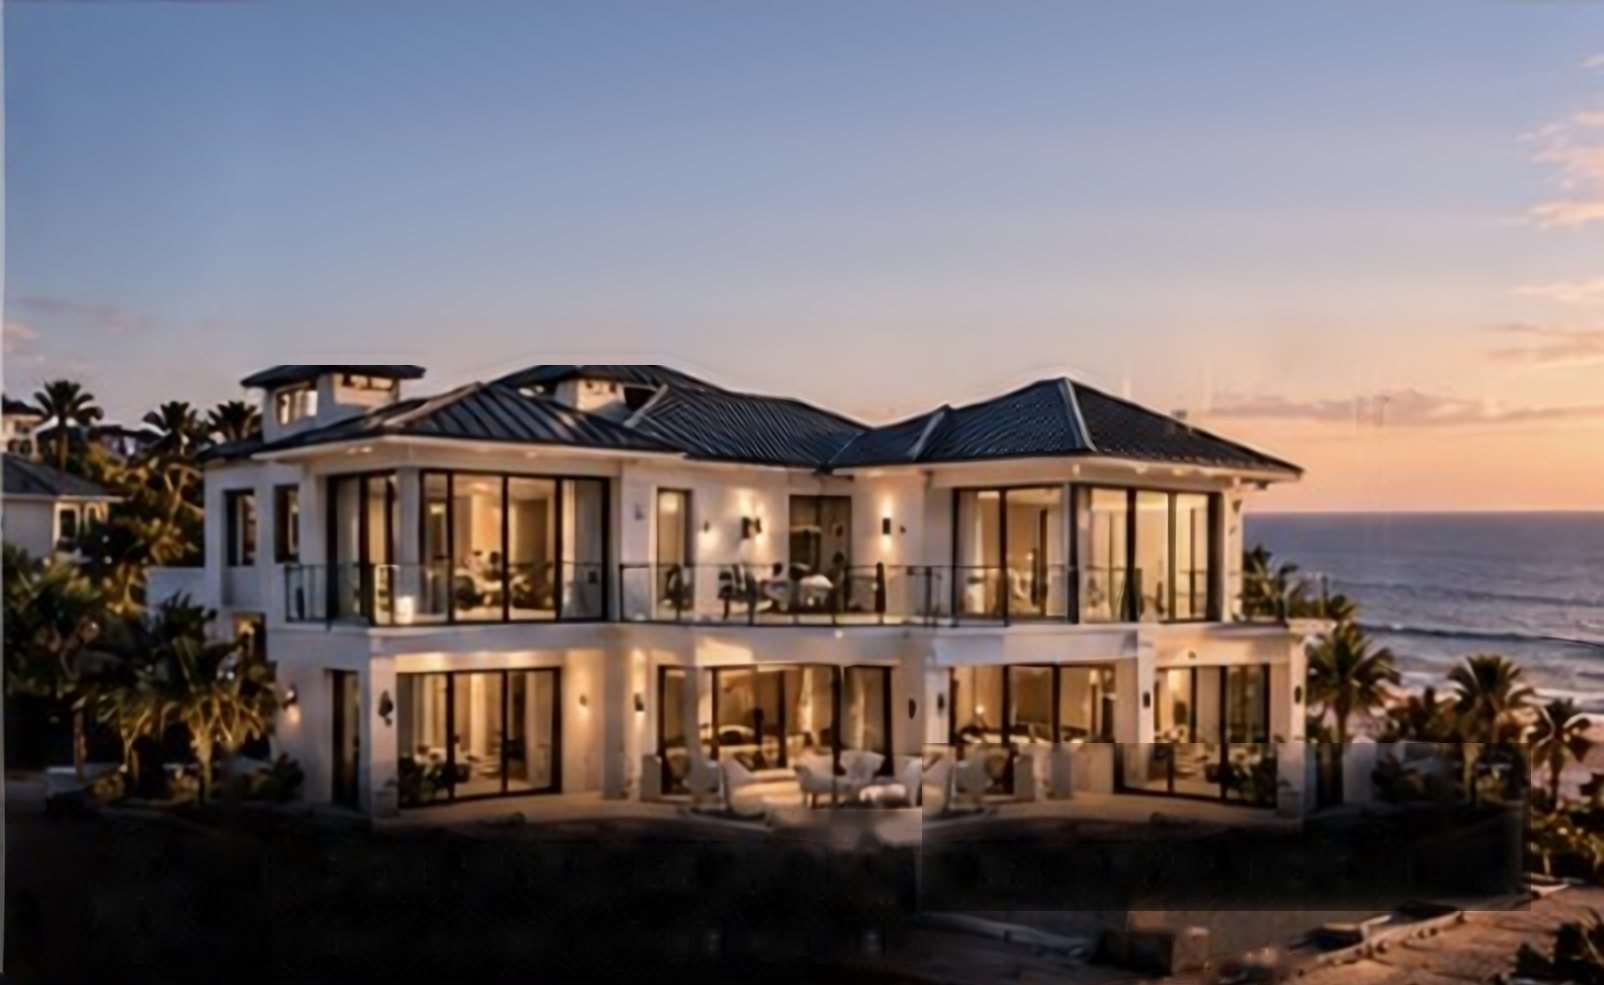
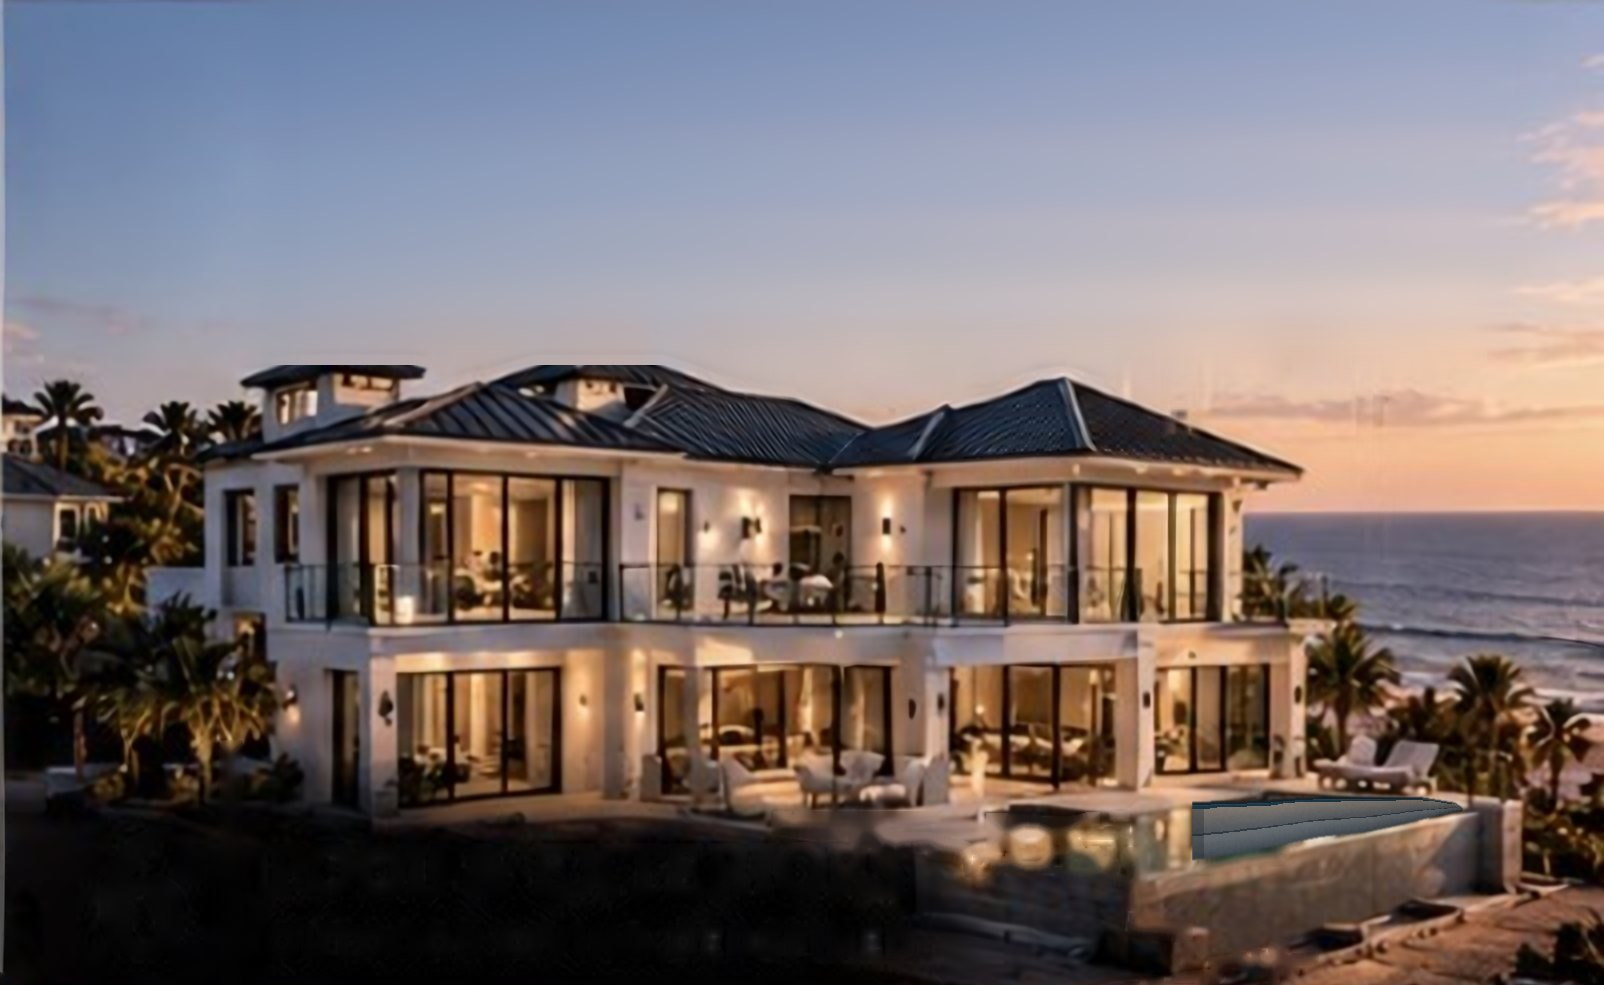
Growth Engine: pool drains and refills, Hilton Head line on the media slide
The pool no longer falls in sideways. It stays in place and, on its turn,
drains to an empty basin and fills back up on the music's beat, with water
sounds and a glint when it is full. The 4K media slide adds commercials and
a short line on looking like Hilton Head Island's number one builder.

Claude-Session: https://claude.ai/code/session_01TNR8JmEy4zebhgppoopCcK

Changed region(s): [[0.5611, 0.731, 0.9663, 0.9442]]

diff --git a/growth-engine/index.html b/growth-engine/index.html
@@ -46,6 +46,12 @@ body{background:var(--ink);color:var(--fg);font:16px/1.6 var(--body);-webkit-fon
 .shot.short .stagebox::after{height:18%}
 .stagebox .plate{position:absolute;inset:0;display:block;width:100%;height:100%}
 .piece{position:absolute;display:block;transform-origin:50% 100%;will-change:transform;backface-visibility:hidden}
+.water{position:absolute;pointer-events:none}
+.water img{position:absolute;inset:0;width:100%;height:100%;display:block}
+.water.moving{filter:drop-shadow(0 -1px 0 rgba(214,255,250,.5))}
+.water i{position:absolute;inset:0;-webkit-mask-size:100% 100%;mask-size:100% 100%;-webkit-mask-repeat:no-repeat;mask-repeat:no-repeat;background:linear-gradient(105deg,rgba(255,255,255,0) 38%,rgba(255,250,235,.6) 50%,rgba(255,255,255,0) 62%) no-repeat;background-size:60% 100%;background-position:-120% 0;opacity:0}
+.water.glint i{animation:glint 1.3s ease-out}
+@keyframes glint{0%{opacity:1;background-position:-120% 0}80%{opacity:1}100%{opacity:0;background-position:220% 0}}
 .build-dust{position:absolute;inset:0;width:100%;height:100%;pointer-events:none}
 .build::after{content:"";position:absolute;inset:0;pointer-events:none;background:radial-gradient(120% 90% at 62% 45%,transparent 55%,rgba(8,7,6,.5))}
 #fade{position:fixed;inset:0;background:#050505;opacity:0;pointer-events:none;z-index:1}
@@ -321,14 +327,15 @@ el.animate([{opacity:1,transform:'scale(1)'},{opacity:.9,transform:'scale(1.4)',
     <div class="card">
       <div class="tb"><span>A-451</span><span>Pool + exteriors</span><span>4K media + content</span></div>
       <h2>Shot like a luxury listing. <em>From the air and the ground.</em></h2>
-      <p>Chandler's team shoots it all: cinematic 4K drone flyovers, aerial photography and on-site camera work that make a finished New Trust Services, LLC project look like what it's worth.</p>
+      <p>Even on your busiest weeks, Chandler's team captures every job in 4K, so your work and your experience are preserved and always on display.</p>
       <ul class="spec">
         <li><b>Drone</b><span>Cinematic 4K flyovers and ultra HD aerial photos of every build.</span></li>
         <li><b>Camera work</b><span>4K on-site filming: before, progress, craft close-ups and walkthroughs.</span></li>
         <li><b>Content library</b><span>Portfolio-grade photos and clips for the website, Google, ads and bids.</span></li>
+        <li><b>Commercials</b><span>Short HD commercials and ad spots for Google, Meta and YouTube.</span></li>
         <li><b>Social media</b><span>Optional: viral-format Reels, TikToks and Shorts, from drone reveals to before-and-afters.</span></li>
       </ul>
-      <p class="loss">High-end clients judge the builder by the footage before they ever meet the crew. Ultra HD makes a six-figure price make sense before the first call.</p>
+      <p class="loss">Online, HD photos, video, commercials and ads make New Trust Services, LLC look like the number one builder in Hilton Head Island. That's what lands the bigger, more profitable jobs: work less, make more.</p>
     </div>
   </section>
 
@@ -1026,6 +1033,24 @@ el.animate([{opacity:1,transform:'scale(1)'},{opacity:.9,transform:'scale(1.4)',
         osc('triangle', 320, 260, 0.03, t + o, 0.001, 0.3 * w, 0.03, d); nz(t + o, 0.001, 0.25 * w, 0.01, 'bandpass', 2000, 1, d);
       });
     },
+    drain: function (t, v, d) {                          // the pool draining: a swirl of water and a few glugs
+      nz(t, 0.35, 0.22 * v, 0.55, 'lowpass', 900, 0.8, d, 240, 1.6);
+      nz(t + 0.1, 0.3, 0.1 * v, 0.4, 'bandpass', 520, 1.6, d, 180, 1.3);
+      for (var k = 0; k < 7; k++) {
+        var tt = t + 0.25 + k * 0.17 + R() * 0.06, f = 260 + R() * 120;
+        osc('sine', f, f * 1.7, 0.05, tt, 0.003, (0.16 - k * 0.012) * v, 0.03, d);   // a bubble's rising bloop
+      }
+    },
+    fill: function (t, v, d) {                           // water rushing back in, its pitch rising as the pool fills
+      nz(t, 0.002, 0.3 * v, 0.06, 'bandpass', 1500, 0.8, d); grains(t + 0.01, 18, 0.35, 2200, 6000, 0.12 * v, d, 2);
+      nz(t, 0.4, 0.2 * v, 0.7, 'bandpass', 480, 0.9, d, 1500, 1.7);
+      nz(t, 0.3, 0.14 * v, 0.6, 'lowpass', 320, 0.7, d);
+      grains(t + 0.4, 26, 1.2, 1500, 4500, 0.06 * v, d, 3);
+    },
+    sparkle: function (t, v, d) {                        // a light chime as the full pool catches the light
+      metal(t, 2350, [1, 1.5, 2.01], [0.3, 0.22, 0.14], 0.07 * v, d);
+      metal(t + 0.09, 3140, [1, 1.5], [0.25, 0.16], 0.05 * v, d);
+    },
     whoosh: function (t, v, d) {
       var p = pn(-0.6, d), f = nz(t, 0.3, 0.9 * v, 0.07, 'bandpass', 350, 1.1, p);
       f.frequency.setValueAtTime(350, t); f.frequency.exponentialRampToValueAtTime(1700, t + 0.3); f.frequency.exponentialRampToValueAtTime(450, t + 0.55);
@@ -1125,12 +1150,15 @@ el.animate([{opacity:1,transform:'scale(1)'},{opacity:.9,transform:'scale(1.4)',
    plate plus its piece, cut into a few sections. As the stage's card arrives, the sections fall in from
    above the frame one at a time, landing on the beat: a gravity drop, a hard landing with a small squash and
    rebound, a puff of dust and a landing sound. Once the last one settles the shot dissolves to the next
-   stage with that piece installed. The camera holds steady and only drifts part way toward the action. */
+   stage with that piece installed. The camera holds steady and only drifts part way toward the action.
+   The pool is the one exception: it stays where it is in the photo and, on its turn, drains and fills back up. */
 var wrap = document.getElementById('build');
 if (!wrap) return;
 var reduce = matchMedia('(prefers-reduced-motion: reduce)').matches;
 // m: scroll position the stage is centred on. piece: [x, y, w, h] of the whole piece as it hung in the source photo
 // (fractions of the plate), land: [dx, dy, scale] that puts it in place on the house. order: which section drops first.
+// fill: [x, y, w, h] of the pool's water layer; line: its waterline, [x, top, bottom] as fractions of that box
+// (sr/poolfill.py cuts the water out and paints the empty basin under it)
 var FRAMES = [
   {src: 'final',      m: 0,    stage: 'The vision',          w: 2412, h: 1328},
   {src: 'foundation', m: .04,  stage: 'Foundation',          w: 1604, h: 981,  piece: [.0998, .633, .7723, .2324],  land: [0, 0, 1],        order: [0, 1, 2],       kind: 'concrete'},
@@ -1138,7 +1166,8 @@ var FRAMES = [
   {src: 'walls',      m: .3,   stage: 'Exterior walls',      w: 1604, h: 981,  piece: [.1459, .0724, .7089, .3374], land: [0, .29, .74],    order: [0, 1, 2, 3, 4], kind: ['concrete', 'glass', 'glass', 'glass', 'concrete']},
   {src: 'roof',       m: .47,  stage: 'Roofing',             w: 1604, h: 985,  piece: [.0673, .0843, .8416, .2863], land: [0, .16, .87],    order: [1, 0, 2],       kind: 'roof'},
   {src: 'interiors',  m: .635, stage: 'Interiors',           w: 1600, h: 985,  piece: [.0956, 0, .785, .4772],      land: [0, .06, .95],    order: [0, 1, 2],       kind: 'wood'},
-  {src: 'pool',       m: .74,  stage: 'Pool + exteriors',    w: 1604, h: 985,  piece: [.1764, .0954, .7089, .2589], land: [.339, .391, .42], order: [0, 1],          kind: 'concrete'},
+  {src: 'pool',       m: .74,  stage: 'Pool + exteriors',    w: 1604, h: 985,  fill: [.7406, .8051, .1739, .0721],
+   line: [[0, .1056, .9366], [.125, .0915, .8662], [.25, .0775, .7817], [.375, .0493, .6972], [.5, .0352, .5986], [.625, .0352, .5423], [.75, .0352, .4437], [.875, .0634, .331], [1, .2042, .2324]]},
   {src: 'landscape',  m: .86,  stage: 'Landscaping',         w: 1604, h: 1083, piece: [.1103, 0, .7213, .3758],     land: [0, .45, 1.15],   order: [0, 3, 1, 2],    kind: 'palm'},
   {src: 'final',      m: .96,  stage: 'The finished estate', w: 2412, h: 1328}
 ];
@@ -1150,7 +1179,6 @@ var PARTS = {
   walls: [[.1478, .1162, .0991, .2508], [.2712, .0755, .1347, .2661], [.4551, .1203, .1608, .2793], [.6259, .1336, .144, .2732], [.7993, .0765, .0536, .314]],
   roof: [[.0692, .128, .2843, .2274], [.3535, .0873, .2774, .2802], [.6309, .1686, .2762, .199]],
   interiors: [[.0975, 0, .2725, .4467], [.37, 0, .2669, .4741], [.6368, .0457, .2419, .4264]],
-  pool: [[.1783, .0984, .331, .2355], [.5093, .1015, .3741, .2497]],
   landscape: [[.1122, -.0729, .1677, .3684], [.3291, -.072, .1764, .3352], [.5286, .0951, .1128, .1985], [.6496, -.0785, .1802, .446]]
 };
 var STAG = 520, SETTLE = 420, HOLD = 520;   // ms: gap between landings (the music's beat when it plays), settle, pause before the dissolve
@@ -1158,13 +1186,15 @@ var ZOOM = 2.1;     // phones: the photo is this many screen widths wide, so mos
 var FOLLOW = .5;    // how far the camera drifts toward the section that is dropping (0 = locked, 1 = centred on it)
 var GRAV = 2.4;     // fall acceleration, in frame heights per second squared
 var ENTRY = .3;     // pieces come in already falling: this share of the fall is covered at entry speed
+var DRAIN = 3, DRY = 1, REFILL = 3, LOW = .9;   // the pool: beats to drain, to stand empty and to fill back up; how far down it goes
+function stage(f){ return !!(f.piece || f.fill); }   // a stage that builds something on its turn
 var bg = wrap.querySelector('.build-bg'), stack = wrap.querySelector('.build-frame'), dust = wrap.querySelector('.build-dust');
 function warm(im){ if (im.decode) im.decode().catch(function(){}); }
 var shots = FRAMES.map(function(f){
   var s = document.createElement('div'); s.className = 'shot';
   var box = document.createElement('div'); box.className = 'stagebox'; s.appendChild(box);
   var plate = new Image(); plate.alt = ''; plate.decoding = 'async'; plate.className = 'plate';
-  plate.src = f.piece ? 'estate2/' + f.src + '_plate.jpg' : 'estate/' + f.src + '.jpg';
+  plate.src = stage(f) ? 'estate2/' + f.src + '_plate.jpg' : 'estate/' + f.src + '.jpg';
   box.appendChild(plate); warm(plate);
   var o = {el: s, box: box, bw: 0, bh: 0, top: 0, x: null, v: 0, hidden: false};
   if (f.piece){
@@ -1179,6 +1209,15 @@ var shots = FRAMES.map(function(f){
               mass: Math.min(1.4, b[2]*b[3]*L[2]*L[2]*8), kind: typeof f.kind === 'string' ? f.kind : f.kind[k]};
     });
   }
+  if (f.fill){
+    // the water, over the empty basin painted into the plate: its waterline is clipped down to drain it
+    var wv = document.createElement('div'); wv.className = 'water';
+    wv.style.left = f.fill[0]*100 + '%'; wv.style.top = f.fill[1]*100 + '%'; wv.style.width = f.fill[2]*100 + '%'; wv.style.height = f.fill[3]*100 + '%';
+    var wi = new Image(); wi.alt = ''; wi.decoding = 'async'; wi.src = 'estate3/' + f.src + '_water.webp';
+    var gl = document.createElement('i'); gl.style.webkitMaskImage = gl.style.maskImage = 'url("estate3/' + f.src + '_water.webp")';
+    wv.appendChild(wi); wv.appendChild(gl); box.appendChild(wv); warm(wi);
+    o.water = wv; o.wimg = wi; o.parts = []; o.level = 0;
+  }
   stack.appendChild(s); return o;
 });
 var hud = document.getElementById('hud'), hTitle = document.getElementById('hudTitle'), hNum = document.getElementById('hudNum'),
@@ -1192,7 +1231,7 @@ function measure(){
   anchors = beats.map(function(b){ var r = b.getBoundingClientRect(), top = r.top + scrollY;
     return {y: b.classList.contains('hero') ? top + innerHeight*.5 : top + r.height*.5, m: +b.dataset.m, s: +b.dataset.s, a: +b.dataset.a}; });
   cardAt = FRAMES.map(function(f){
-    var b = f.piece && beats.filter(function(x){ return +x.dataset.m === f.m && +x.dataset.s === 0; })[0], c = b && b.querySelector('.card');
+    var b = stage(f) && beats.filter(function(x){ return +x.dataset.m === f.m && +x.dataset.s === 0; })[0], c = b && b.querySelector('.card');
     return c ? target(c.getBoundingClientRect().top + scrollY - innerHeight*.76).m : null;
   });
 }
@@ -1217,7 +1256,7 @@ function dropAt(i){
    into the page below, and the camera glides part way toward each section as it drops */
 var FW = 0, FH = 0;
 function phone(){ return FW/FH < 1.2; }
-function orderOf(i){ var f = FRAMES[i]; return phone() ? PARTS[f.src].map(function(b, k){ return k; }) : f.order; }
+function orderOf(i){ var f = FRAMES[i]; return !f.piece ? [] : phone() ? PARTS[f.src].map(function(b, k){ return k; }) : f.order; }
 function layout(){
   var fw = stack.clientWidth, fh = stack.clientHeight; FW = fw; FH = fh;
   shots.forEach(function(s, i){
@@ -1234,6 +1273,7 @@ function layout(){
 function camAim(i, j, P){
   // desktop: the landing area, drifting half way to where the piece ends up; phones: the landing area, drifting toward section j
   var s = shots[i], f = FRAMES[i];
+  if (f.fill){ var cx = f.fill[0] + f.fill[2]/2; return phone() ? cx : .5 + FOLLOW*(cx - .5); }   // the pool, held in view
   if (!f.piece) return .45;
   var gx = f.piece[0] + f.piece[2]/2;
   if (!phone()) return gx + FOLLOW*f.land[0]*P;
@@ -1257,8 +1297,17 @@ function put(i, j, off, sx, sy){
   var s = shots[i], q = s.parts[j], k = FRAMES[i].land[2];
   q.el.style.transform = 'translate3d(' + (q.dx*s.bw).toFixed(1) + 'px,' + (q.dy*s.bh - off).toFixed(1) + 'px,0) scale(' + (k*(sx || 1)).toFixed(4) + ',' + (k*(sy || 1)).toFixed(4) + ')';
 }
-function hideAll(i){ var s = shots[i]; s.hidden = true; s.parts.forEach(function(q, j){ q.landed = false; put(i, j, q.clear); }); }
-function landAll(i){ var s = shots[i]; s.hidden = false; s.parts.forEach(function(q, j){ q.landed = true; put(i, j, 0); }); }
+function hideAll(i){ var s = shots[i]; s.hidden = true; if (s.water) level(i, 0); s.parts.forEach(function(q, j){ q.landed = false; put(i, j, q.clear); }); }
+function landAll(i){ var s = shots[i]; s.hidden = false; if (s.water) level(i, 0); s.parts.forEach(function(q, j){ q.landed = true; put(i, j, 0); }); }
+/* the pool's water level: 0 full, 1 empty. The waterline runs through the traced points between the far coping and the near rim */
+function level(i, u){
+  var s = shots[i], L = FRAMES[i].line;
+  if (s.level === u) return; s.level = u;
+  var cp = u <= 0 ? 'none' : 'polygon(' + L.map(function(p){ return p[0]*100 + '% ' + ((p[1] + u*(p[2] - p[1]))*100).toFixed(2) + '%'; }).join(',') + ',100% 100%,0% 100%)';
+  s.wimg.style.webkitClipPath = s.wimg.style.clipPath = cp;
+  s.water.classList.toggle('moving', u > .01);
+}
+function glint(i){ var w = shots[i].water; w.classList.remove('glint'); void w.offsetWidth; w.classList.add('glint'); }
 
 /* dust: a soft puff along the bottom edge of each section as it lands */
 var dctx = dust.getContext('2d'), puffs = [], dustT = 0;
@@ -1306,6 +1355,15 @@ function beatMs(){ var A = window.LupeAudio, b = A && A.on && A.beat; if (!b) re
 var seq = null, done = [];
 function startSeq(i, now){
   var s = shots[i], A = window.LupeAudio, gap = beatMs() || STAG, order = orderOf(i), T = 0;
+  if (FRAMES[i].fill){
+    // the pool: it starts draining on a beat, stands empty for a beat and fills back up
+    var t0 = now + 160;
+    if (A && A.on && A.delayToBeat) t0 += A.delayToBeat(t0 - now) || 0;
+    s.hidden = false;
+    seq = {i: i, fill: true, order: [], t0: t0, d: DRAIN*gap, dry: DRY*gap, f: REFILL*gap};
+    seq.end = t0 + seq.d + seq.dry + seq.f;
+    return;
+  }
   s.parts.forEach(function(q){
     // one gravity for every piece: further to fall, longer in the air
     q.T = clamp(1000*Math.sqrt(2*(1 - ENTRY)*q.clear/FH/GRAV), 420, 900); T = Math.max(T, q.T); q.landed = false; q.wh = false;
@@ -1321,12 +1379,32 @@ function rush(now){
   // the reader scrolled on: bring the rest down quickly instead of cutting
   if (seq.rushed) return; seq.rushed = true;
   var n = 0, s = shots[seq.i];
+  if (seq.fill){ seq.ru = s.level; seq.rt = now; seq.end = now + 350; seq.hold = 120; return; }   // the water rushes back in
   seq.order.forEach(function(j){ var q = s.parts[j]; if (now < q.at - q.T){ q.T = 380; q.at = now + 380 + n*100; n++; } });
   seq.end = Math.max.apply(null, s.parts.map(function(q){ return q.at; })) + SETTLE;
   seq.hold = 120;
 }
 function stepSeq(now){
   var i = seq.i, s = shots[i];
+  if (seq.fill){
+    var t = now - seq.t0, u = 0, k;
+    if (seq.rushed) u = seq.ru*(1 - clamp((now - seq.rt)/350));
+    else if (t < 0) u = 0;
+    else if (t < seq.d){
+      // draining: it starts slowly, picks up, and slows as the last of it goes
+      if (!seq.s1){ seq.s1 = true; sfx('drain', .55); }
+      k = t/seq.d; u = LOW*(.5 - .5*Math.cos(Math.PI*k));
+    }
+    else if (t < seq.d + seq.dry) u = LOW;
+    else if (t < seq.d + seq.dry + seq.f){
+      if (!seq.s2){ seq.s2 = true; sfx('fill', .6); }
+      k = (t - seq.d - seq.dry)/seq.f; u = LOW*(1 - k*k*(3 - 2*k));
+    }
+    level(i, u);
+    if (u === 0 && t >= seq.d && !seq.s3){ seq.s3 = true; glint(i); if (!seq.rushed) sfx('sparkle', .5); }
+    if (now >= seq.end + (seq.hold === undefined ? HOLD : seq.hold)){ done[i] = true; seq = null; }
+    return;
+  }
   s.parts.forEach(function(q, j){
     var t = now - (q.at - q.T);
     if (t < 0){ put(i, j, q.clear); return; }
@@ -1352,13 +1430,13 @@ function stepSeq(now){
 }
 function focusPart(i, now){
   // the section the camera leans toward: the one falling now, or the next to go
-  if (done[i]) return undefined;
+  if (done[i] || !FRAMES[i].piece) return undefined;
   var s = shots[i], o = seq && seq.i === i ? seq.order : orderOf(i);
   if (!seq || seq.i !== i) return o[0];
   for (var n = 0; n < o.length; n++) if (now < s.parts[o[n]].at + 120) return o[n];
   return o[o.length - 1];
 }
-function landedShare(i){ var s = shots[i], n = 0; s.parts.forEach(function(q){ if (q.landed) n++; }); return n/s.parts.length; }
+function landedShare(i){ var s = shots[i], n = 0; if (!s.parts.length) return done[i] ? 1 : 0; s.parts.forEach(function(q){ if (q.landed) n++; }); return n/s.parts.length; }
 
 /* scroll state */
 var cur = null, vis = -1, prevI = -1, lastKey = '', swapT = 0, lastNow = 0;
@@ -1371,7 +1449,7 @@ function setVisible(j){
   clearTimeout(swapT);
   swapT = setTimeout(function(){ shots.forEach(function(s, k){ if (k !== vis) s.el.classList.remove('on'); }); }, 950);
   bg.style.backgroundImage = 'url("estate/' + FRAMES[j].src + '_s.jpg")';
-  if (FRAMES[j].piece && !done[j] && !(seq && seq.i === j)) hideAll(j);   // its pieces wait above the frame
+  if (stage(FRAMES[j]) && !done[j] && !(seq && seq.i === j)) hideAll(j);   // its pieces wait above the frame
 }
 function frame(now){
   if (window.__lupeClock) now = window.__lupeClock(now);   // test hook: lets a harness freeze a drop mid-air
@@ -1387,14 +1465,14 @@ function frame(now){
   }
   if (cur.s < .5){
     var i = frameAt(cur.m), sp = span(i), p = clamp((cur.m - sp[0])/Math.max(.001, sp[1] - sp[0])), F = FRAMES[i];
-    var down = !!F.piece && cur.m >= dropAt(i);
+    var down = stage(F) && cur.m >= dropAt(i);
     // scrolling back up un-builds: later stages build again on the way down
     for (var k = 1; k < FRAMES.length; k++) if (k > i || (k === i && !down)) done[k] = false;
     if (seq && (seq.i > i || (seq.i === i && !down))) seq = null;
     if (seq && seq.i < i) rush(now);
     if (seq) stepSeq(now);
     if (!seq){
-      for (k = 1; k < i; k++) if (FRAMES[k].piece && !done[k]){ landAll(k); done[k] = true; }   // skipped past: put it in place
+      for (k = 1; k < i; k++) if (stage(FRAMES[k]) && !done[k]){ landAll(k); done[k] = true; }   // skipped past: put it in place
       if (down && !done[i]){
         if (!reduce && (prevI === i || prevI === i - 1)) startSeq(i, now), stepSeq(now);
         else { landAll(i); done[i] = true; }
@@ -1402,7 +1480,7 @@ function frame(now){
     }
     var was = vis;
     setVisible(seq ? seq.i : down && done[i] ? i + 1 : i);
-    if (F.piece && !down && !seq && !shots[i].hidden) hideAll(i);
+    if (stage(F) && !down && !seq && !shots[i].hidden) hideAll(i);
     prevI = i;
     // camera: a slow push-in through each stage, leaning toward the action
     var vi = vis, z = reduce ? 1 : 1.04 - .04*(vi === i ? p : vi > i ? 0 : 1), drift = reduce ? 0 : cur.a*.006;
@@ -1415,7 +1493,7 @@ function frame(now){
 }
 function resize(){
   measure(); layout(); sizeDust(); lastKey = '';
-  shots.forEach(function(s, i){ if (FRAMES[i].piece && !(seq && seq.i === i)){ if (done[i]) landAll(i); else hideAll(i); } });
+  shots.forEach(function(s, i){ if (stage(FRAMES[i]) && !(seq && seq.i === i)){ if (done[i]) landAll(i); else hideAll(i); } });
 }
 addEventListener('resize', resize);
 if (document.fonts && document.fonts.ready) document.fonts.ready.then(measure);
